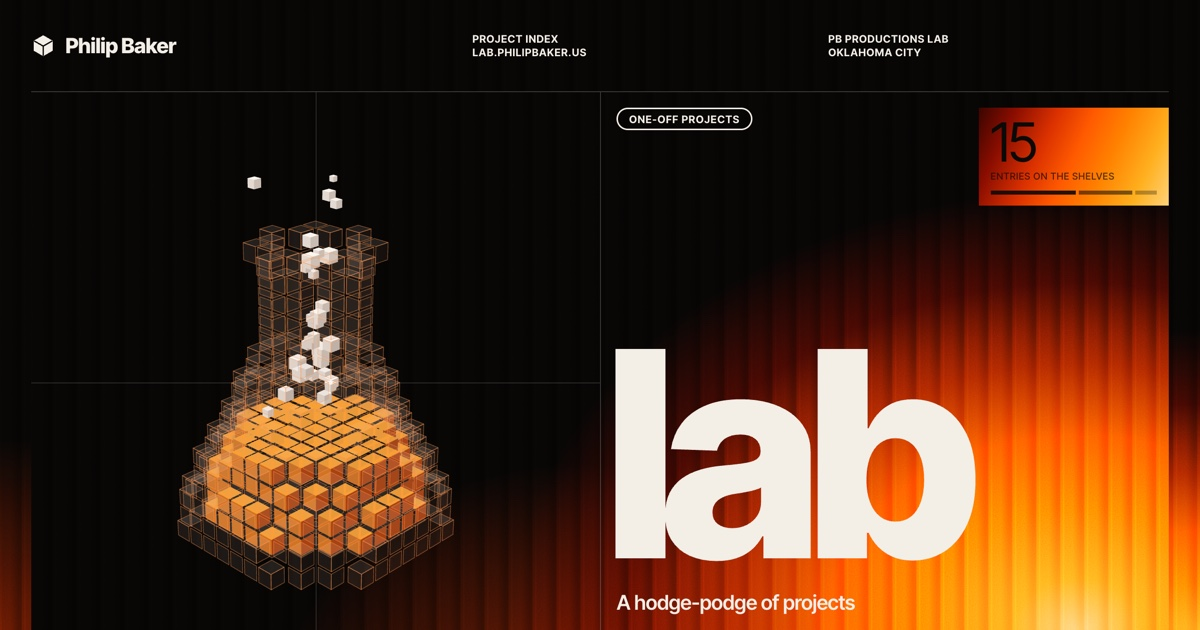
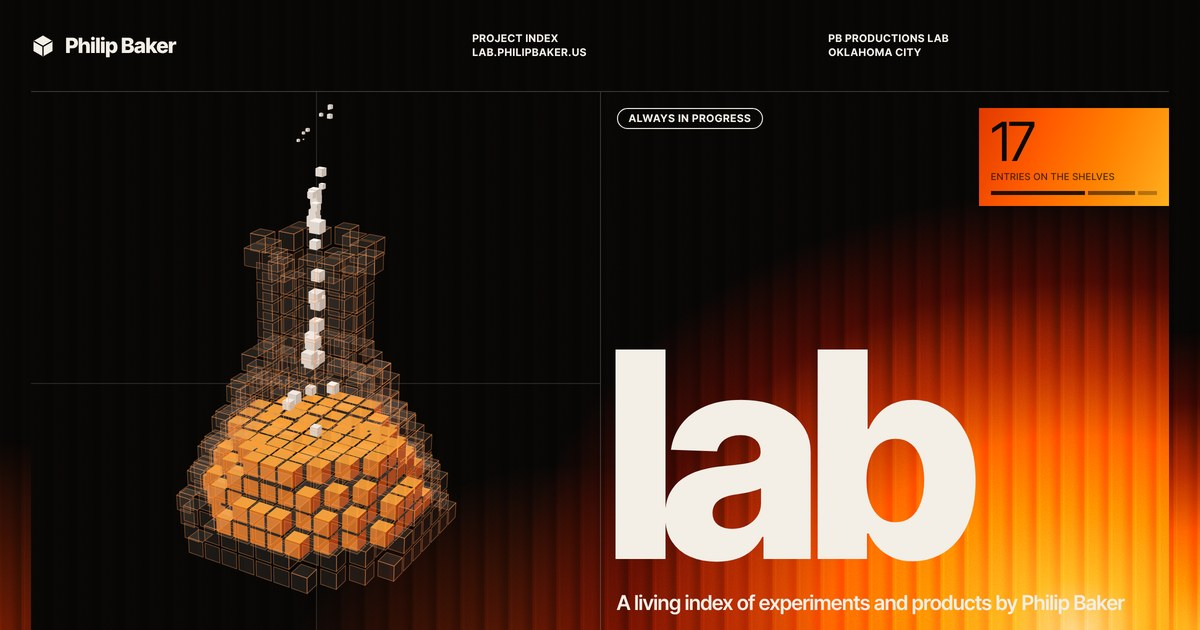
Lab: "a living index of experiments and products", not "hodge-podge"
Philip: it's an ongoing directory, an ever-living place for experiments and
real products. The hero line, the title ("lab — experiments and products
by Philip Baker"), og/twitter titles, image alt and descriptions, the
JSON-LD names, the Subject row, the badge ("Always in progress", was
"One-off projects") and llms.txt all say so now. shared/og.jpg is
re-rendered from the hero: the new line, the new badge, 17 entries.
The descriptions also name the new products (an AI Bible research tool,
an AI widget builder for web, iPhone and Mac), at 158 characters.

Claude-Session: https://claude.ai/code/session_01CW6imEQVCocwx2jsggwUVG

diff --git a/index.html b/index.html
@@ -3,22 +3,22 @@
 <head>
 <meta charset="utf-8">
 <meta name="viewport" content="width=device-width, initial-scale=1">
-<title>lab — a hodge-podge of projects by Philip Baker</title>
-<meta name="description" content="One-off projects from Philip Baker: AI case studies, a live widget builder, playable '90s Shockwave games, agency archives and small Mac apps.">
+<title>lab — experiments and products by Philip Baker</title>
+<meta name="description" content="Philip Baker's living index of experiments and products: an AI Bible research tool, an AI widget builder for web, iPhone and Mac, case studies and '90s games.">
 <link rel="canonical" href="https://lab.philipbaker.us/">
-<meta property="og:title" content="lab — a hodge-podge of projects">
-<meta property="og:description" content="AI case studies, a live widget builder, playable '90s Shockwave games, agency archives and small Mac apps.">
+<meta property="og:title" content="lab — experiments and products by Philip Baker">
+<meta property="og:description" content="An AI Bible research tool, an AI widget builder for the web, iPhone and Mac, AI case studies, playable '90s Shockwave games and small Mac apps.">
 <meta property="og:type" content="website">
 <meta property="og:url" content="https://lab.philipbaker.us/">
 <meta property="og:site_name" content="PB Productions Lab">
 <meta property="og:image" content="https://lab.philipbaker.us/shared/og.jpg">
 <meta property="og:image:width" content="1200">
 <meta property="og:image:height" content="630">
-<meta property="og:image:alt" content="lab — a hodge-podge of projects by Philip Baker.">
+<meta property="og:image:alt" content="lab — a living index of experiments and products by Philip Baker.">
 <meta name="twitter:card" content="summary_large_image">
 <meta name="twitter:image" content="https://lab.philipbaker.us/shared/og.jpg">
-<meta name="twitter:title" content="lab — a hodge-podge of projects">
-<meta name="twitter:description" content="AI case studies, a live widget builder, playable '90s Shockwave games, agency archives and small Mac apps.">
+<meta name="twitter:title" content="lab — experiments and products by Philip Baker">
+<meta name="twitter:description" content="An AI Bible research tool, an AI widget builder for the web, iPhone and Mac, AI case studies, playable '90s Shockwave games and small Mac apps.">
 <meta name="theme-color" content="#070605">
 <script type="application/ld+json">
 {
@@ -29,7 +29,7 @@
       "@id": "https://lab.philipbaker.us/#website",
       "name": "lab.philipbaker.us",
       "alternateName": "PB Productions Lab",
-      "description": "One-off projects from Philip Baker: AI case studies, a live widget builder, playable '90s Shockwave games, agency archives and small Mac apps.",
+      "description": "Philip Baker's living index of experiments and products: an AI Bible research tool, an AI widget builder for web, iPhone and Mac, case studies and '90s games.",
       "url": "https://lab.philipbaker.us/",
       "inLanguage": "en-US",
       "publisher": {"@id": "https://lab.philipbaker.us/#philip"}
@@ -40,7 +40,7 @@
     {
       "@type": "CollectionPage",
       "@id": "https://lab.philipbaker.us/#page",
-      "name": "lab — a hodge-podge of projects by Philip Baker",
+      "name": "lab — experiments and products by Philip Baker",
       "url": "https://lab.philipbaker.us/",
       "isPartOf": {"@id": "https://lab.philipbaker.us/#website"},
       "dateModified": "2026-10-06",
@@ -161,7 +161,7 @@ body::after{z-index:-1;opacity:var(--rib);mix-blend-mode:overlay;
 .count .segs i{flex:var(--n);background:currentColor;opacity:.9}
 .count .segs i:nth-child(2){opacity:.55}
 .count .segs i:nth-child(3){opacity:.3}
-/* one heading: the big word and the line under it (search reads "lab, a hodge-podge of projects by Philip Baker") */
+/* one heading: the big word and the line under it (search reads "lab, a living index of experiments and products by Philip Baker") */
 h1{margin:0}
 h1 .word{display:block;font:800 clamp(128px,24vw,390px)/.74 var(--sans);letter-spacing:-.058em;margin-left:-.045em;padding-bottom:.07em}
 .lede{display:block;margin:10px 0 0;font:600 clamp(18px,1.7vw,24px)/1.15 var(--sans);letter-spacing:-.015em}
@@ -316,7 +316,7 @@ gtag('config','G-X8JTH9PN21',{allow_google_signals:false,allow_ad_personalizatio
   </div>
 
   <div class="meta">
-    <p><span class="k">Subject</span><span class="v">A hodge-podge of projects</span></p>
+    <p><span class="k">Subject</span><span class="v">Experiments and products</span></p>
     <nav aria-label="Shelves"><span class="k">Shelves</span><span class="v"><a href="#toys">Toys and Widgets</a> · <a href="#stories">Case Studies &amp; Stories</a> · <a href="#partners">Partner Companies</a></span></nav>
     <p><span class="k">Instruction</span><span class="v">Drag the flask · pick a card</span></p>
     <p><span class="k">Pointer</span><span class="v" id="xy">X 0000 / Y 0000</span></p>
@@ -325,7 +325,7 @@ gtag('config','G-X8JTH9PN21',{allow_google_signals:false,allow_ad_personalizatio
   <div class="stage">
     <div class="intro">
       <div class="top">
-        <span class="pill">One-off projects</span>
+        <span class="pill">Always in progress</span>
         <div class="count" aria-label="17 entries: 10 toys and widgets, 5 case studies and stories, 2 partner companies">
           <b>17</b>
           <span class="k">Entries on the shelves</span>
@@ -333,7 +333,7 @@ gtag('config','G-X8JTH9PN21',{allow_google_signals:false,allow_ad_personalizatio
         </div>
       </div>
       <div>
-        <h1><span class="word">lab</span><span class="lede">A hodge-podge of projects by Philip Baker</span></h1>
+        <h1><span class="word">lab</span><span class="lede">A living index of experiments and products by Philip Baker</span></h1>
       </div>
     </div>
     <div class="specimen">

diff --git a/CLAUDE.md b/CLAUDE.md
@@ -341,7 +341,19 @@ out a 503. **A Realtime row has still not been seen; that needs Philip's GA logi
     title"): `<span class="nm">` under the title, INSIDE the link — so the anchor text and GA's `item_name`
     are "supporting line + name". Small orange caps (`--name`), kept solid when the title burns on hover.
     And the brand is the heading: `<h1>` holds the big "lab" (`.word`) and the line under it
-    ("A hodge-podge of projects by Philip Baker") — one heading, nothing moved on screen.
+    ("A living index of experiments and products by Philip Baker") — one heading, nothing moved on screen.
+  - **"A living index", never "hodge-podge"** (Philip, Oct 6 2026: "It's an ongoing directory, an
+    ever living place to have experiments and real products"). The line, the title ("lab —
+    experiments and products by Philip Baker"), the badge ("Always in progress"), the Subject
+    row, the descriptions, `llms.txt` and `shared/og.jpg` all carry it; "hodge-podge" and
+    "one-off" are gone from the site. Re-render `og.jpg` whenever the hero's words change.
+  - **The big cards carry three liftable lines** (Oct 6 2026, from a note on getting quoted by AI:
+    a definition, one fact, one step, near the top, mirrored in FAQ schema): `<dl class="lift">`
+    under the title — What it is / Fact / Start. Each sentence names its subject so it stands
+    alone when quoted; every fact comes from the project's own page, and a number carries its
+    source and date (`.src`). The `FAQPage` node in the head repeats them word for word: change
+    one, change the other. Partner Companies have none: their facts live on their own sites,
+    which can't be checked from here.
   - **Adding or removing an entry touches:** the card (a supporting title, the name as `.nm`, `alt` = the share card's words), its shelf's "NN entries", the hero's
     count box (the number, its `aria-label`, and the three `--n` segments), and the JSON-LD
     `ItemList` (lab pages only, page order) — then the sitemap as usual.
